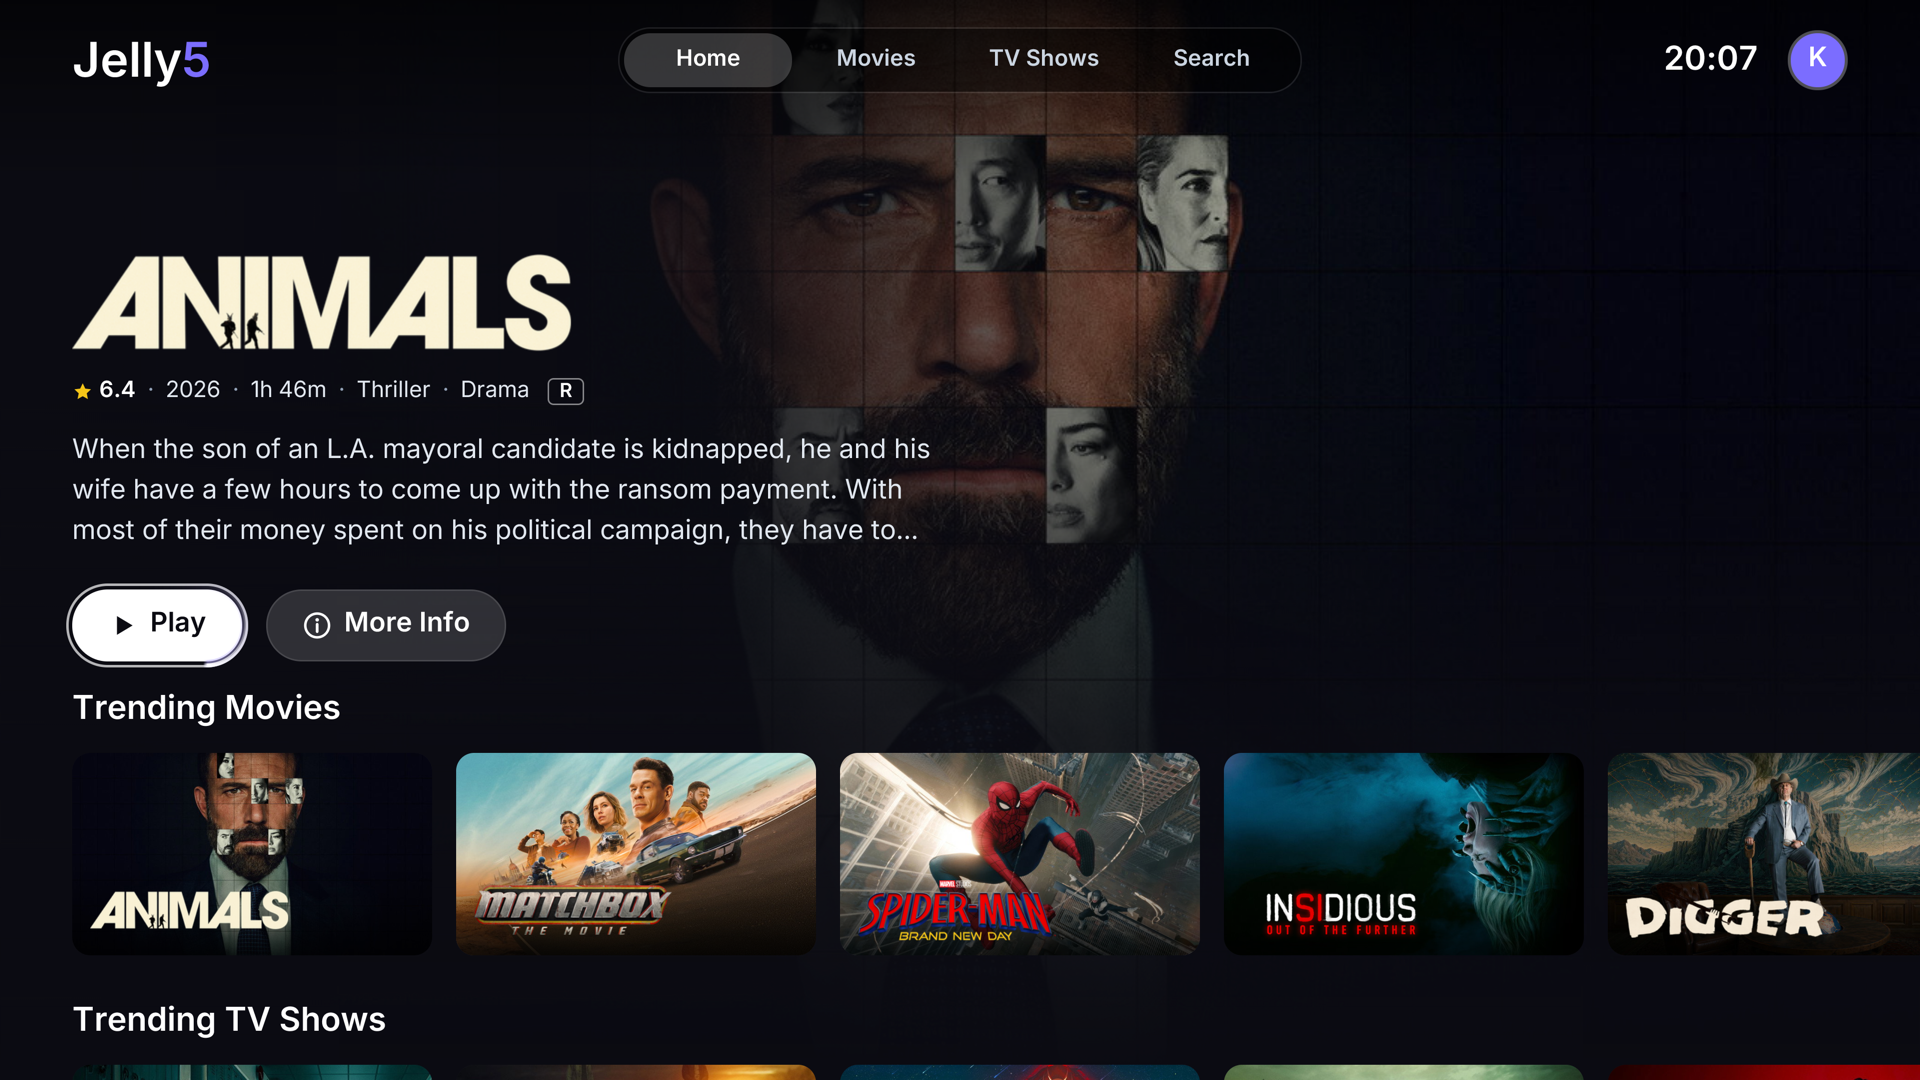
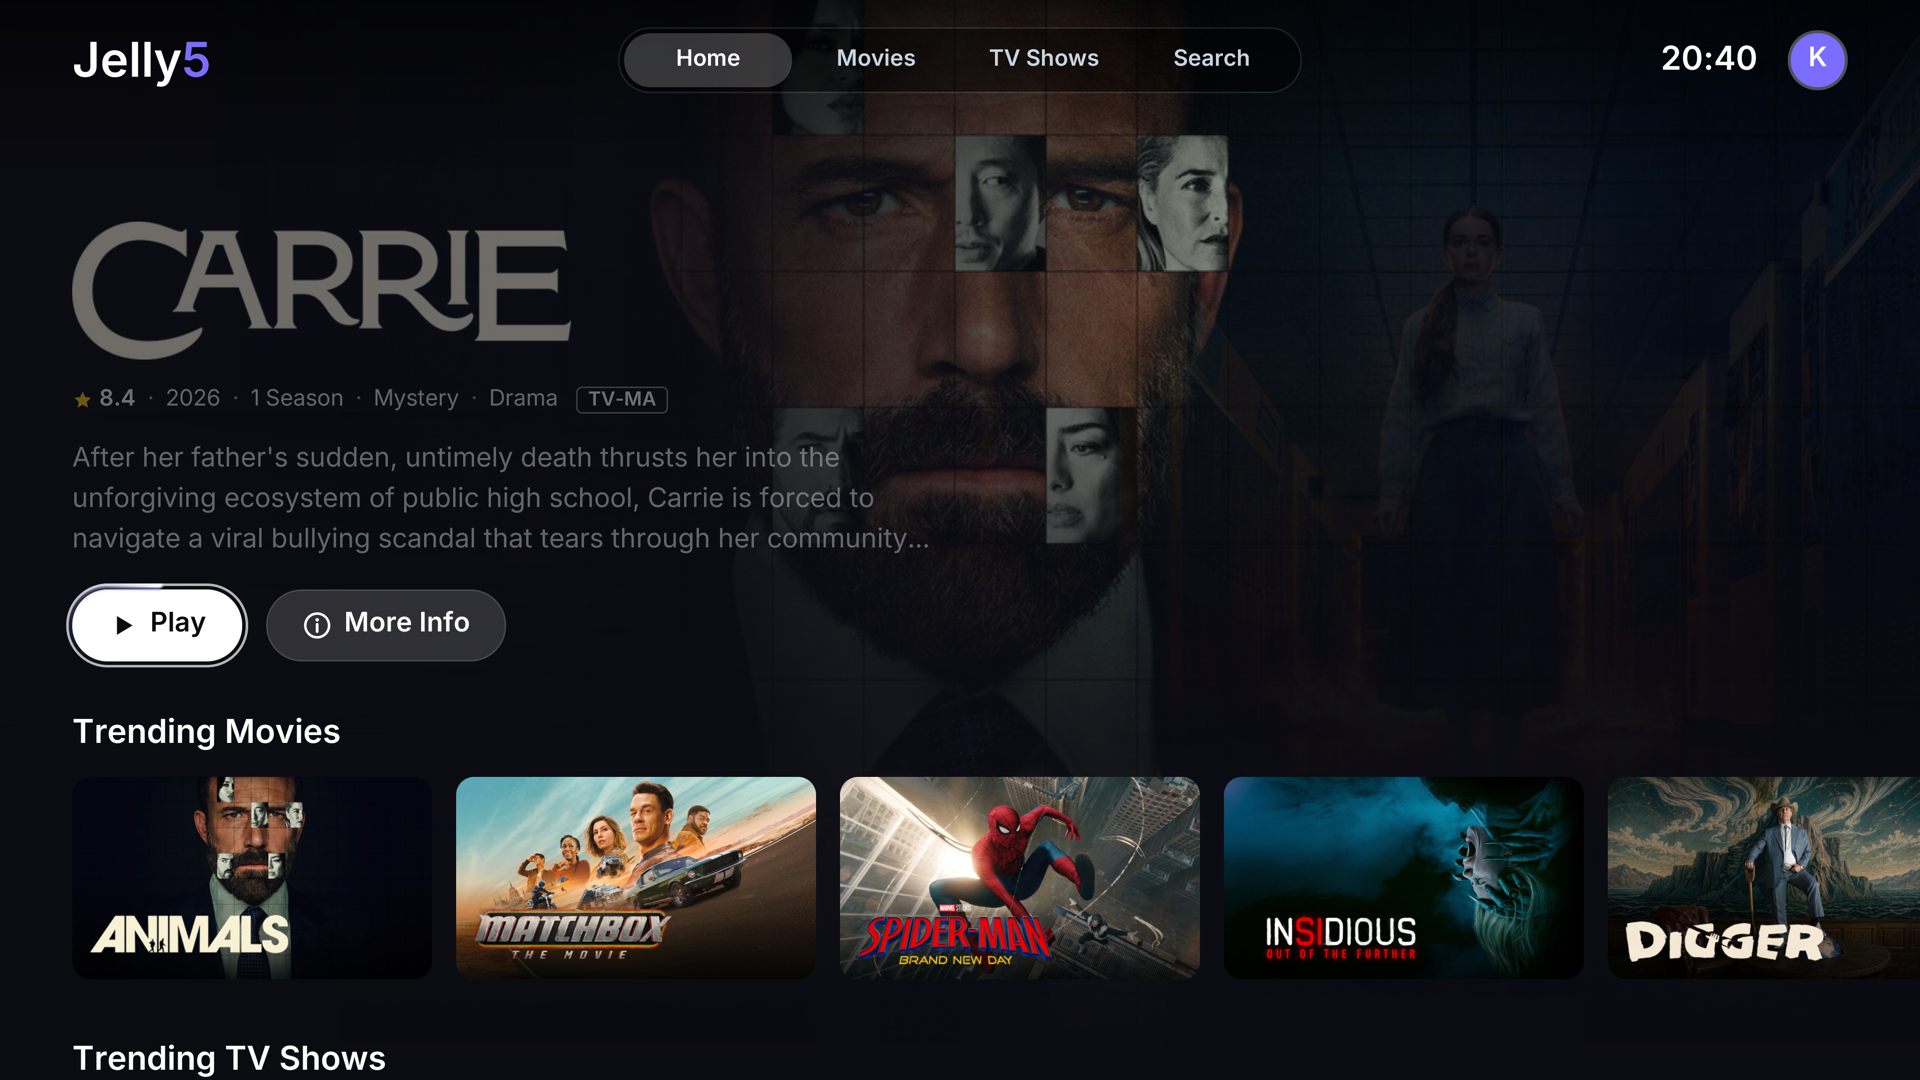
Home: hero and top bar scroll away with the rows (translate, not pinned)

diff --git a/pages/Home.jsx b/pages/Home.jsx
@@ -1,6 +1,6 @@
 import {useCallback, useEffect, useRef, useState} from 'react';
 import {ScrollView, Text, View, motion, transitions} from '@ps5-react/core';
-import {HERO_ROTATE_MS, PREVIEW_DELAY_MS} from '../theme.js';
+import {HERO_ROTATE_MS, PREVIEW_DELAY_MS, SCREEN, px} from '../theme.js';
 import {clampText, heroItems, items, rows} from '../lib/catalog.js';
 import {Backdrop} from '../components/Backdrop.jsx';
 import {BackdropCard} from '../components/Cards.jsx';
@@ -10,6 +10,14 @@ import {Logo} from '../components/Logo.jsx';
 import {MetaLine} from '../components/Meta.jsx';
 
 const ROWS = rows.map(row => ({...row, items: row.items.map(key => items[key])}));
+
+// The page scrolls by translating one column (hero block, then rows) instead of a ScrollView, so the
+// top bar can move with it in lockstep. Heights are fixed, which makes every row's offset known up front.
+const HERO_H = 474;
+const ROW_H = 218;
+const ROW_TOP = 24; // a focused row's title sits this far below the screen top
+const CONTENT_H = HERO_H + ROWS.length * ROW_H + 40;
+const rowOffset = index => Math.min(HERO_H + index * ROW_H - ROW_TOP, CONTENT_H - SCREEN.h);
 
 // Hero overviews are clamped to three lines and also kept under the engine's 255-byte text node cap.
 const HERO_OVERVIEW_BYTES = 200;
@@ -33,7 +41,7 @@ function HeroInfo({item, onPlay, onMore, onFocus}) {
 
 function Row({row, onOpen, onPreview}) {
   return (
-    <View scrollAnchor className="pb-6">
+    <View style={{height: px(ROW_H)}}>
       <Text className="font-semi text-lg text-white px-12">{row.title}</Text>
       <ScrollView horizontal className="flex-row h-[166px]">
         <View className="flex-row gap-4 px-12 py-[14px]">
@@ -47,8 +55,9 @@ function Row({row, onOpen, onPreview}) {
 /**
  * Home: a crossfading full-bleed backdrop, hero info for the featured title and rows below. The hero
  * rotates every 8 s while focus is on its buttons; resting on a card features that card instead.
+ * `scrollY` (logical px) lives in the app because the top bar scrolls away with this page.
  */
-export function HomePage({onOpen, onPlay}) {
+export function HomePage({onOpen, onPlay, scrollY = 0, onScrollY}) {
   const [featured, setFeatured] = useState(heroItems[0]);
   const [rotating, setRotating] = useState(true);
   const pending = useRef(null);
@@ -63,12 +72,14 @@ export function HomePage({onOpen, onPlay}) {
   }, [rotating, featured]);
   useEffect(() => () => clearTimeout(pending.current), []);
 
-  const preview = useCallback(item => {
+  const preview = useCallback((item, rowIndex) => {
+    onScrollY(rowOffset(rowIndex));
     setRotating(false);
     clearTimeout(pending.current);
     pending.current = setTimeout(() => setFeatured(item), PREVIEW_DELAY_MS);
   }, []);
   const heroFocus = useCallback(() => {
+    onScrollY(0);
     clearTimeout(pending.current);
     setRotating(true);
   }, []);
@@ -76,17 +87,28 @@ export function HomePage({onOpen, onPlay}) {
   return (
     <View className="absolute inset-0">
       <Backdrop item={featured} />
-      <View pointerEvents="none" className="absolute left-0 top-0 bottom-0 w-[1000px]
-        bg-gradient-to-r from-canvas via-canvas/85 to-transparent" />
-      <View pointerEvents="none" className="absolute left-0 right-0 bottom-0 h-[460px]
-        bg-gradient-to-t from-canvas via-canvas/80 to-transparent" />
-      <View pointerEvents="none" className="absolute left-0 right-0 top-0 h-[120px]
-        bg-gradient-to-b from-black/60 to-transparent" />
-      <HeroInfo item={featured} onPlay={onPlay} onMore={onOpen} onFocus={heroFocus} />
-      <ScrollView className="absolute left-0 right-0 bottom-0 h-[262px]">
-        {ROWS.map(row => <Row key={row.id} row={row} onOpen={onOpen} onPreview={preview} />)}
-        <View className="h-[40px]" />
-      </ScrollView>
+      {/* In the rows one flat dim replaces the hero's gradients: every layer under the moving column is
+          blended again on each frame of the scroll. It snaps rather than fades, since animated opacity on a
+          screen-sized node is the costliest effect. */}
+      {scrollY > 0 ? <View pointerEvents="none" className="absolute inset-0 bg-canvas/70" /> : (
+        <>
+          <View pointerEvents="none" className="absolute left-0 top-0 bottom-0 w-[1000px]
+            bg-gradient-to-r from-canvas via-canvas/85 to-transparent" />
+          <View pointerEvents="none" className="absolute left-0 right-0 bottom-0 h-[460px]
+            bg-gradient-to-t from-canvas via-canvas/80 to-transparent" />
+          <View pointerEvents="none" className="absolute left-0 right-0 top-0 h-[120px]
+            bg-gradient-to-b from-black/60 to-transparent" />
+        </>
+      )}
+      <motion.View className="absolute left-0 right-0 top-0" initial={false} animate={{y: -scrollY}}
+        transition={transitions.screen}>
+        <View style={{height: px(HERO_H)}}>
+          <HeroInfo item={featured} onPlay={onPlay} onMore={onOpen} onFocus={heroFocus} />
+        </View>
+        {ROWS.map((row, index) => (
+          <Row key={row.id} row={row} onOpen={onOpen} onPreview={item => preview(item, index)} />
+        ))}
+      </motion.View>
     </View>
   );
 }

diff --git a/index.jsx b/index.jsx
@@ -38,6 +38,7 @@ function App() {
   const [tab, setTab] = useState(0);
   const [detail, setDetail] = useState(null);
   const [toast, setToast] = useState(null);
+  const [homeY, setHomeY] = useState(0);
   const {focus} = useFocus();
   const started = useRef(false);
 
@@ -53,6 +54,11 @@ function App() {
   }, [toast]);
 
   const open = useCallback(item => setDetail(item), []);
+  // Focusing a tab selects it; on Home that also scrolls back so the focused tab is on screen.
+  const select = useCallback(index => {
+    setTab(index);
+    setHomeY(0);
+  }, []);
   const play = useCallback(item => setToast({id: Date.now(), text: `Playback isn't wired up in this demo: ${item.title}`}), []);
   const onAction = action => {
     if (action !== 'l1' && action !== 'r1') return false;
@@ -69,12 +75,12 @@ function App() {
             <motion.View key={tab} className="absolute inset-0"
               variants={screen} initial="hidden" animate="shown" exit="gone">
               <FocusScope focusKey="content" onBack={() => focus('tabs')}>
-                {TABS[tab].render({onOpen: open, onPlay: play})}
+                {TABS[tab].render({onOpen: open, onPlay: play, scrollY: homeY, onScrollY: setHomeY})}
               </FocusScope>
             </motion.View>
           </AnimatePresence>
-          <TopBar labels={LABELS} active={tab} onSelect={setTab} onEnter={() => focus('content')}
-            downTo={DOWN_TO} />
+          <TopBar labels={LABELS} active={tab} onSelect={select} onEnter={() => focus('content')}
+            downTo={DOWN_TO} y={tab === 0 ? homeY : 0} />
         </View>
       </FocusScope>
       <AnimatePresence>

diff --git a/components/TopBar.jsx b/components/TopBar.jsx
@@ -25,11 +25,12 @@ function Clock() {
 
 /**
  * Wordmark, the centred tab pill and the clock/avatar. Tabs share one width so the active pill glides by
- * translation; focusing a tab selects it (docs/NAVIGATION.md "Tabs").
+ * translation; focusing a tab selects it (docs/NAVIGATION.md "Tabs"). `y` scrolls it off with Home's content.
  */
-export function TopBar({labels, active, onSelect, onEnter, downTo = {}}) {
+export function TopBar({labels, active, onSelect, onEnter, downTo = {}, y = 0}) {
   return (
-    <View className="absolute left-0 right-0 top-0 h-[80px]" pointerEvents="box-none">
+    <motion.View className="absolute left-0 right-0 top-0 h-[80px]" pointerEvents="box-none"
+      initial={false} animate={{y: -y}} transition={transitions.screen}>
       <View className="absolute left-12 top-0 bottom-0 flex-row items-center">
         <Text className="font-semi text-xl text-white">Jelly<Text className="font-semi text-xl text-accent">5</Text></Text>
       </View>
@@ -54,6 +55,6 @@ export function TopBar({labels, active, onSelect, onEnter, downTo = {}}) {
           <Text className="font-semi text-md text-white">K</Text>
         </View>
       </View>
-    </View>
+    </motion.View>
   );
 }
